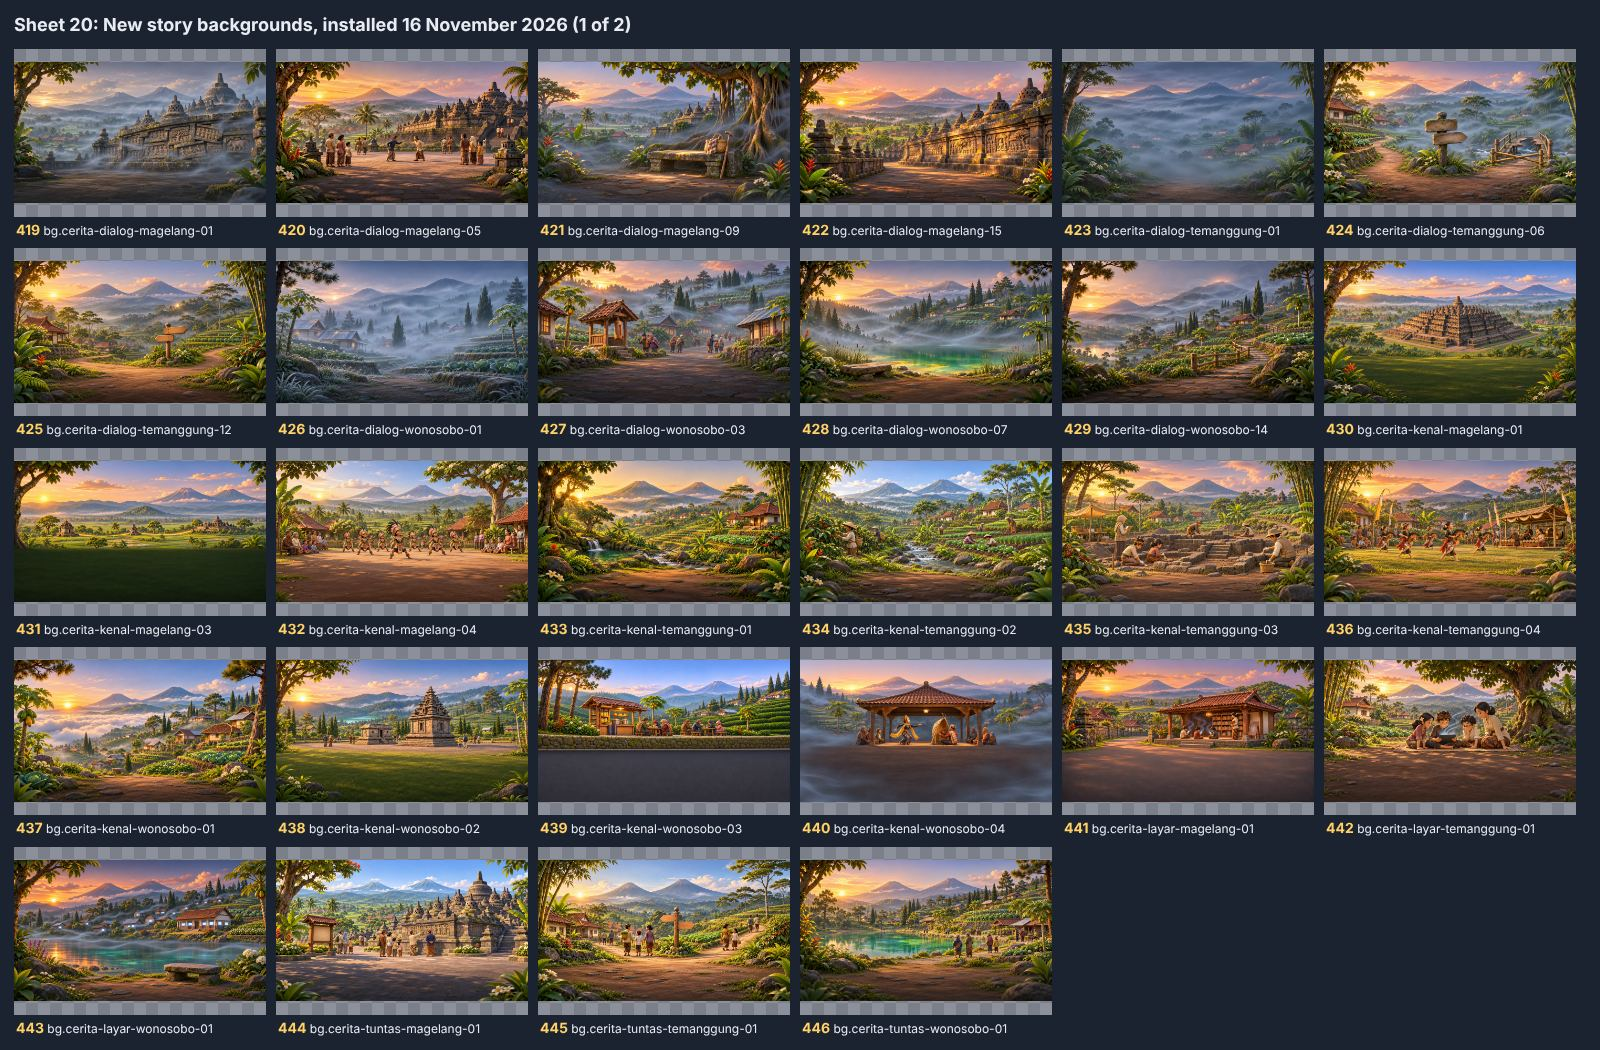
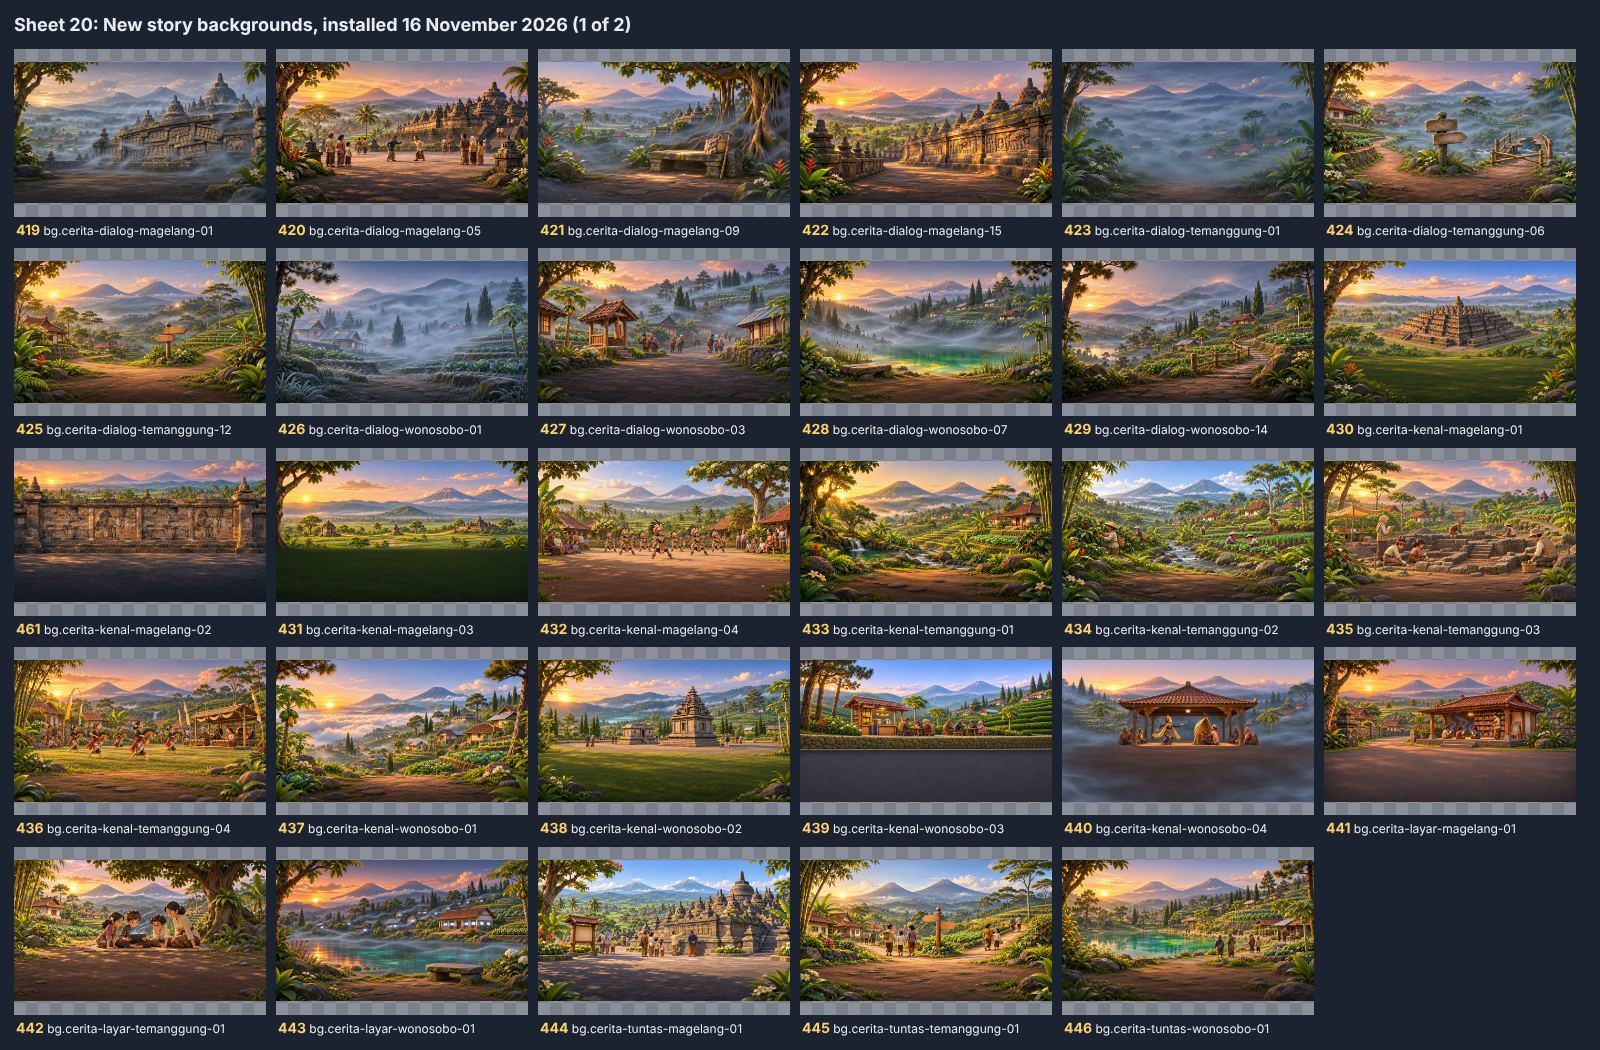
Install M-K2 as the interim Magelang Kenali background; record the PR 420 install and move the shared plates to the uniform-HUD step

diff --git a/gelita-katalog/data.js b/gelita-katalog/data.js
@@ -122,6 +122,7 @@ window.KATALOG = {
 {"id":"bg.cerita-intro-08","g":"story","t":"Tiga Kunci Cahaya","d":"Slide cerita · `intro-08` · Mbah Kedu *smile*. Senja dari serambi joglo penjaga berpagar ukir: Temanggung, Magelang dan Wonosobo terbentang, satu kunci kuningan bercahaya di atas setiap wilayah, ketiganya sama; tanpa orang dan tanpa sinar. Dibuat dari foto Dataran Kedu berizin dari peneliti (R-30, dokumen 39).","k":["bg.cerita-intro-08"],"u":["Cerita pembuka, slide 8"],"r":null,"c":null,"x":false,"p":"assets/uploads/bg.story.intro.8.webp","wh":[1920,1080],"s":"keep","sn":"17 November 2026: replaced in place by the new picture of ../chatgpt-images/TASKS.md row R-30 (document 39), made from the researcher's licensed Kedu photos: golden hour from the keeper's porch with a carved railing, the three lands beyond, one brass key over each; no people, no rays. Owner: accepted (in this session); installed by a Claude session the same day.","no":197},
 {"id":"bg.cerita-intro-09","g":"story","t":"Perjalanan Dimulai","d":"Slide cerita · `intro-09` · narator · *glow*","k":["bg.cerita-intro-09"],"u":["Cerita pembuka, slide 9"],"r":null,"c":null,"x":false,"p":"assets/uploads/bg.story.intro.9.webp","wh":[1920,1080],"s":"none","sn":"","no":198},
 {"id":"bg.cerita-kenal-magelang-01","g":"story","t":"Tanah Candi Agung","d":"Slide cerita · `kenal-magelang-01` · Kenali · TASKS.md M-K1","k":["bg.cerita-kenal-magelang-01"],"u":["Mengenal Magelang, slide 1"],"r":"magelang","c":null,"x":false,"p":"assets/uploads/bg.story.region_intro.magelang.1.webp","wh":[1920,1080],"s":"keep","sn":"accepted by the owner and installed 16 November 2026 — ../chatgpt-images/TASKS.md; one file can fill several slides.","no":430},
+{"id":"bg.cerita-kenal-magelang-02","g":"story","t":"Buku dari Batu","d":"Slide cerita · `kenal-magelang-02` · Kenali · TASKS.md M-K2","k":["bg.cerita-kenal-magelang-02"],"u":["Mengenal Magelang, slide 2"],"r":"magelang","c":null,"x":false,"p":"assets/uploads/bg.story.region_intro.magelang.2.webp","wh":[1920,1080],"s":"keep","sn":"accepted by the owner and installed 18 November 2026 (interim: two relief panels repeated; validators judge it) — ../chatgpt-images/TASKS.md row M-K2; one file can fill several slides. Owner, 18 Nov 2026: asked a Claude session to check and install the pictures of PR 420. The check found the relief panels follow the Kemenag photos 05 and 16, but only two panels are shown, each repeated twice (A-B-A-B), while every Borobudur panel is unique; the owner chose to install it now as the interim picture, and the cultural validators judge it later.","no":461},
 {"id":"bg.cerita-kenal-magelang-03","g":"story","t":"Tiga Candi Segaris","d":"Slide cerita · `kenal-magelang-03` · Kenali · TASKS.md M-K3","k":["bg.cerita-kenal-magelang-03"],"u":["Mengenal Magelang, slide 3"],"r":"magelang","c":null,"x":false,"p":"assets/uploads/bg.story.region_intro.magelang.3.webp","wh":[1920,1080],"s":"keep","sn":"accepted by the owner and installed 16 November 2026 — ../chatgpt-images/TASKS.md; one file can fill several slides.","no":431},
 {"id":"bg.cerita-kenal-magelang-04","g":"story","t":"Pesan Mbah","d":"Slide cerita · `kenal-magelang-04` · Kenali · TASKS.md M-K4","k":["bg.cerita-kenal-magelang-04"],"u":["Mengenal Magelang, slide 4"],"r":"magelang","c":null,"x":false,"p":"assets/uploads/bg.story.region_intro.magelang.4.webp","wh":[1920,1080],"s":"keep","sn":"accepted by the owner and installed 16 November 2026 — ../chatgpt-images/TASKS.md; one file can fill several slides.","no":432},
 {"id":"bg.cerita-kenal-temanggung-01","g":"story","t":"Di Antara Dua Gunung","d":"Slide cerita · `kenal-temanggung-01` · Kenali · TASKS.md T-K1","k":["bg.cerita-kenal-temanggung-01"],"u":["Mengenal Temanggung, slide 1"],"r":"temanggung","c":null,"x":false,"p":"assets/uploads/bg.story.region_intro.temanggung.1.webp","wh":[1920,1080],"s":"keep","sn":"accepted by the owner and installed 16 November 2026 — ../chatgpt-images/TASKS.md; one file can fill several slides.","no":433},

diff --git a/ai-studio/chatgpt-images/TASKS.md b/ai-studio/chatgpt-images/TASKS.md
@@ -20,7 +20,7 @@ Statuses: `todo` → `generated` (ChatGPT, file is in `out/`) → `accepted` or 
 | T-T1 | Story background, Temanggung, region done | `docs/revisi-10-analitik/37_PROMPT_GAMBAR_SUSUN_DAN_CERITA.md` → *T-T1 · Temanggung cerah lagi* | `bg.cerita-tuntas-temanggung-01.webp` | 1920 × 1080 | style | also fills `bg.cerita-tuntas-temanggung-02` to `bg.cerita-tuntas-temanggung-05` (5 slots) | installed | 2026-11-14 Owner, 16 Nov 2026: accepted (all waiting pictures); installed by a Claude session the same day. |
 | T-L1 | Story background, Temanggung, bridge story | `docs/revisi-10-analitik/37_PROMPT_GAMBAR_SUSUN_DAN_CERITA.md` → *T-L1 · Kabut di Layar (Temanggung)* | `bg.cerita-layar-temanggung-01.webp` | 1920 × 1080 | style | also fills `bg.cerita-layar-temanggung-02` to `bg.cerita-layar-temanggung-06` (6 slots) | installed | 2026-11-14 Owner, 16 Nov 2026: accepted (all waiting pictures); installed by a Claude session the same day. |
 | M-K1 | Story background, Magelang, Kenali | `docs/revisi-10-analitik/37_PROMPT_GAMBAR_SUSUN_DAN_CERITA.md` → *M-K1 · Tanah Candi Agung* | `bg.cerita-kenal-magelang-01.webp` | 1920 × 1080 | style | one slot | installed | 2026-11-15 — Acuan foto pemilik di chat. Owner, 16 Nov 2026: accepted (all waiting pictures); installed by a Claude session the same day. |
-| M-K2 | Story background, Magelang, Kenali | `docs/revisi-10-analitik/37_PROMPT_GAMBAR_SUSUN_DAN_CERITA.md` → *M-K2 · Buku dari Batu* | `bg.cerita-kenal-magelang-02.webp` | 1920 × 1080 | style | one slot | generated | 2026-11-14 — Kandidat di inbox; perlu acuan panel asli agar tidak mengarang relief. Review 15 Nov 2026 (Claude session): delete `inbox/M-K2-needs-relief-reference.png` (2.8 MB) once this row is settled. 2026-11-15 — Foto Borobudur O-001–O-003 dari UGM tersedia di inbox, belum dipakai: lisensi per berkas dan kecocokan lorong perlu verifikasi (Commons 403). Tautan relief Mendut berlisensi CC BY 2.0, tetapi bukan Borobudur. Rincian: inbox/reference-sources-2026-11-15.json. 2026-11-15 — Izin penggunaan foto Kemenag dikonfirmasi pemilik melalui kontak langsung; kendala lisensi selesai. 3 percobaan generasi belum lolos kesetiaan relief asli dan area teks bawah. Kandidat baru: inbox/M-K2-candidate-failed-checks.webp. Referensi foto lorong 15.jpg dan detail 5.jpg/16.jpg beserta kredit Lindra Hismanto 2023 tersimpan di inbox; rincian izin di inbox/reference-sources-2026-11-15.json. 2026-11-18 — 2026-11-18: Owner approved Kemenag 05/15/16 references; three new attempts still invent relief panels, although the third has a calm lower third. 2026-11-18 — Owner-requested retry: repeats authorized Kemenag relief compositions in a front-on gallery view with quiet floor. |
+| M-K2 | Story background, Magelang, Kenali | `docs/revisi-10-analitik/37_PROMPT_GAMBAR_SUSUN_DAN_CERITA.md` → *M-K2 · Buku dari Batu* | `bg.cerita-kenal-magelang-02.webp` | 1920 × 1080 | style | one slot | installed | 2026-11-14 — Kandidat di inbox; perlu acuan panel asli agar tidak mengarang relief. Review 15 Nov 2026 (Claude session): delete `inbox/M-K2-needs-relief-reference.png` (2.8 MB) once this row is settled. 2026-11-15 — Foto Borobudur O-001–O-003 dari UGM tersedia di inbox, belum dipakai: lisensi per berkas dan kecocokan lorong perlu verifikasi (Commons 403). Tautan relief Mendut berlisensi CC BY 2.0, tetapi bukan Borobudur. Rincian: inbox/reference-sources-2026-11-15.json. 2026-11-15 — Izin penggunaan foto Kemenag dikonfirmasi pemilik melalui kontak langsung; kendala lisensi selesai. 3 percobaan generasi belum lolos kesetiaan relief asli dan area teks bawah. Kandidat baru: inbox/M-K2-candidate-failed-checks.webp. Referensi foto lorong 15.jpg dan detail 5.jpg/16.jpg beserta kredit Lindra Hismanto 2023 tersimpan di inbox; rincian izin di inbox/reference-sources-2026-11-15.json. 2026-11-18 — 2026-11-18: Owner approved Kemenag 05/15/16 references; three new attempts still invent relief panels, although the third has a calm lower third. 2026-11-18 — Owner-requested retry: repeats authorized Kemenag relief compositions in a front-on gallery view with quiet floor. Owner, 18 Nov 2026: asked a Claude session to check and install the pictures of PR 420. The check found the relief panels follow the Kemenag photos 05 and 16, but only two panels are shown, each repeated twice (A-B-A-B), while every Borobudur panel is unique; the owner chose to install it now as the interim picture, and the cultural validators judge it later. |
 | M-K3 | Story background, Magelang, Kenali | `docs/revisi-10-analitik/37_PROMPT_GAMBAR_SUSUN_DAN_CERITA.md` → *M-K3 · Tiga Candi Segaris* | `bg.cerita-kenal-magelang-03.webp` | 1920 × 1080 | style | one slot | installed | 2026-11-14 first picture. Prompt rewritten 15 Nov 2026: read it again. The three temples now sit in the upper two thirds, seen from a shaded hilltop; the lower third is only dark, plain grass. 2026-11-15 — Generated ulang dari prompt PR #359; sepertiga bawah berupa pita rumput gelap yang polos. 2026-11-15 — Disetujui peneliti. Owner, 16 Nov 2026: accepted (all waiting pictures); installed by a Claude session the same day. |
 | M-K4 | Story background, Magelang, Kenali | `docs/revisi-10-analitik/37_PROMPT_GAMBAR_SUSUN_DAN_CERITA.md` → *M-K4 · Pesan Mbah* | `bg.cerita-kenal-magelang-04.webp` | 1920 × 1080 | style | one slot | installed | 2026-11-15 Owner, 16 Nov 2026: accepted (all waiting pictures); installed by a Claude session the same day. |
 | M-D1 | Story background, Magelang, region dialogue | `docs/revisi-10-analitik/37_PROMPT_GAMBAR_SUSUN_DAN_CERITA.md` → *M-D1 · Borobudur berkabut* | `bg.cerita-dialog-magelang-01.webp` | 1920 × 1080 | style | also fills `bg.cerita-dialog-magelang-02` to `bg.cerita-dialog-magelang-04` (4 slots) | installed | 2026-11-15 Owner, 16 Nov 2026: accepted (all waiting pictures); installed by a Claude session the same day. |

diff --git a/ai-studio/game-images/REVIEW.md b/ai-studio/game-images/REVIEW.md
@@ -2,7 +2,7 @@
 
 The work list of this folder, like `TASKS.md` in `../chatgpt-images/`. One row is one picture; the number under each thumbnail on a sheet is the row's **No**. The owner reviews every picture against the game as it is today, and decides what stays, what is redrawn and what goes. A Claude Code session then acts on the marks (see `docs/PROGRESS.md` → *Asset catalogue audit and picture review*).
 
-401 rows on 17 sheets since 18 November 2026, when the style board U-00 (`reference.27`) got row 460 on sheet 19 and the researcher-checked pictures of document 40 (S-02 to S-05, PK-01 to PK-32) replaced their files in place. 400 rows from 17 November 2026, when the three avatar expressions R-31 to R-33 got rows 457 to 459 on sheet 06. 397 rows from 16 November 2026, when the owner accepted the pictures waiting in `../chatgpt-images/out/` and a Claude session installed them: a picture that replaced a file in place took over that file's row (nos. 447 and 449 to 452 were removed, and sheet 18 with the interim bridge backgrounds 390 to 392, and sheet 21); the new story backgrounds stay on sheet 20, linked to their new place, and W-K4 (no. 440) still waits there for its redo. Before that: 403 rows on 19 sheets (no. 453, the round-2 post photo, added that day; no. 456, the Isi Rumpang plate, too), at first 452 on 21; rows 129 to 178, the 50 vector icons of sheets 07 and 08, were dropped and removed; the other rows keep their numbers.
+402 rows on 17 sheets since 18 November 2026, when the pictures of PR 420 were installed: M-K2 got row 461 on sheet 20, W-K4 (no. 440) took its place there, and the document 40 interface parts replaced their files in place. 401 rows from 18 November 2026, when the style board U-00 (`reference.27`) got row 460 on sheet 19 and the researcher-checked pictures of document 40 (S-02 to S-05, PK-01 to PK-32) replaced their files in place. 400 rows from 17 November 2026, when the three avatar expressions R-31 to R-33 got rows 457 to 459 on sheet 06. 397 rows from 16 November 2026, when the owner accepted the pictures waiting in `../chatgpt-images/out/` and a Claude session installed them: a picture that replaced a file in place took over that file's row (nos. 447 and 449 to 452 were removed, and sheet 18 with the interim bridge backgrounds 390 to 392, and sheet 21); the new story backgrounds stay on sheet 20, linked to their new place, and W-K4 (no. 440) still waits there for its redo. Before that: 403 rows on 19 sheets (no. 453, the round-2 post photo, added that day; no. 456, the Isi Rumpang plate, too), at first 452 on 21; rows 129 to 178, the 50 vector icons of sheets 07 and 08, were dropped and removed; the other rows keep their numbers.
 
 ## How to mark
 
@@ -731,6 +731,7 @@ Shown here only so they can be compared with the rest.
 | 428 | [`bg.cerita-dialog-wonosobo-07`](assets/latar/bg.cerita-dialog-wonosobo-07.webp) | New story background made by ChatGPT | Story slide background (see `data.json`: every slide it fills) | `keep: accepted by the owner and installed 16 November 2026` | `../chatgpt-images/TASKS.md`; one file can fill several slides. |
 | 429 | [`bg.cerita-dialog-wonosobo-14`](assets/latar/bg.cerita-dialog-wonosobo-14.webp) | New story background made by ChatGPT | Story slide background (see `data.json`: every slide it fills) | `keep: accepted by the owner and installed 16 November 2026` | `../chatgpt-images/TASKS.md`; one file can fill several slides. |
 | 430 | [`bg.cerita-kenal-magelang-01`](assets/latar/bg.cerita-kenal-magelang-01.webp) | New story background made by ChatGPT | Story slide background (see `data.json`: every slide it fills) | `keep: accepted by the owner and installed 16 November 2026` | `../chatgpt-images/TASKS.md`; one file can fill several slides. |
+| 461 | [`bg.cerita-kenal-magelang-02`](assets/latar/bg.cerita-kenal-magelang-02.webp) | New story background made by ChatGPT | Story slide background (see `data.json`: every slide it fills) | `keep: accepted by the owner and installed 18 November 2026 (interim: two relief panels repeated; validators judge it)` | `../chatgpt-images/TASKS.md` row M-K2; one file can fill several slides. Owner, 18 Nov 2026: asked a Claude session to check and install the pictures of PR 420. The check found the relief panels follow the Kemenag photos 05 and 16, but only two panels are shown, each repeated twice (A-B-A-B), while every Borobudur panel is unique; the owner chose to install it now as the interim picture, and the cultural validators judge it later. |
 | 431 | [`bg.cerita-kenal-magelang-03`](assets/latar/bg.cerita-kenal-magelang-03.webp) | New story background made by ChatGPT | Story slide background (see `data.json`: every slide it fills) | `keep: accepted by the owner and installed 16 November 2026` | `../chatgpt-images/TASKS.md`; one file can fill several slides. |
 | 432 | [`bg.cerita-kenal-magelang-04`](assets/latar/bg.cerita-kenal-magelang-04.webp) | New story background made by ChatGPT | Story slide background (see `data.json`: every slide it fills) | `keep: accepted by the owner and installed 16 November 2026` | `../chatgpt-images/TASKS.md`; one file can fill several slides. |
 | 433 | [`bg.cerita-kenal-temanggung-01`](assets/latar/bg.cerita-kenal-temanggung-01.webp) | New story background made by ChatGPT | Story slide background (see `data.json`: every slide it fills) | `keep: accepted by the owner and installed 16 November 2026` | `../chatgpt-images/TASKS.md`; one file can fill several slides. |

diff --git a/docs/revisi-10-analitik/04_CATATAN_KEPUTUSAN.md b/docs/revisi-10-analitik/04_CATATAN_KEPUTUSAN.md
@@ -6,6 +6,13 @@ Catatan ini merekam keputusan selama revisi, dari yang terbaru. Keputusan untuk 
 
 ## 18 November 2026
 
+**Gambar PR 420 dipasang; pelat umum menunggu HUD seragam** (cabang `pw/vigilant-cray-j6l324`, dokumen [40](40_PROMPT_GAMBAR_ANTARMUKA.md) dan [41](41_RENCANA_TAMPILAN_SKENARIO_DAN_HUD.md)) · `asal: pengembang` · `disetujui pengembang` · gambar dan dua penanda gembok; naskah, bank soal, dan status dokumen 40 tidak berubah
+
+Pengembang meminta gambar baru PR 420 diperiksa dan dipasang. Diperiksa terhadap prompt dokumen 40 dan 37, lalu:
+1. **Dipasang:** sepuluh cincin avatar (`U-24` sampai `U-33`, avatar 7 kini carica), Lentera Kedu dan tiga lentera Kenali (`U-14` sampai `U-17`), pin peta dan lencana wilayah (`U-18` sampai `U-23`), penanda status, bintang, panah kotak pilihan, pelat judul peta wilayah, dan isi bilah Serpihan Cahaya (`U-06`, `U-08` sampai `U-13`), ikon aplikasi dan favicon dari induknya (`U-34`, `U-35`), latar halaman awal (`S-W`), dan latar cerita `W-K4` (bundengan tegak bertongkat, penari bertopeng). Penanda terkunci kini menggambar gemboknya sendiri, jadi ikon gembok di atasnya dihapus.
+2. **`M-K2` dipasang sebagai gambar sementara** atas keputusan pengembang, walaupun pemeriksaan menemukan hanya dua panel relief dari foto acuan yang masing-masing diulang dua kali (A-B-A-B), padahal setiap panel Borobudur berbeda. Validator budaya menilainya nanti.
+3. **Pelat `U-01` sampai `U-03`, bingkai `U-04`, dan bilah `U-05` belum dipasang:** pemasangannya menata ulang tombol, papan, jendela, dan bilah di sekitar 25 tampilan, jadi dikerjakan bersama HUD seragam (41 §6 langkah C). `U-07` masih `blocked`.
+
 **Tampilan baru Skenario Digital dan HUD seragam** (cabang `pw/vigilant-cray-j6l324`, dokumen [41](41_RENCANA_TAMPILAN_SKENARIO_DAN_HUD.md)) · `asal: pengembang` · `disetujui pengembang` · diskusi mockup dan wawancara dua putaran; rencana saja, belum ada kode; aturan penelitian Skenario Digital (32 §5.2, §6) tidak berubah
 
 Pengembang memutuskan (rincian di 41 §1):

diff --git a/ai-studio/game-images/README.md b/ai-studio/game-images/README.md
@@ -8,7 +8,7 @@ Nothing here is loaded by the game at run time, and the folder is never served. 
 
 | Path | Read by | Notes |
 |---|---|---|
-| `data.json` | `App\Libraries\CatalogImporter::entries()` | 560 picture entries (90 story-slide entries for the 27 story backgrounds installed on 16 November 2026) (514 until the 50 vector icons were dropped in the review of 15 November 2026): `key`, `file`, `cat`, plus title, size, and the prompt the picture was made from. A Pustaka entry may carry `caption` (`{"id": …, "en": …}`): the importer then replaces the caption of the photo the picture stands in for. Slimmed on 15 November 2026: the 97 audio entries and the status fields of the old gallery page are gone (git history). |
+| `data.json` | `App\Libraries\CatalogImporter::entries()` | 565 picture entries (90 story-slide entries for the 27 story backgrounds installed on 16 November 2026) (514 until the 50 vector icons were dropped in the review of 15 November 2026): `key`, `file`, `cat`, plus title, size, and the prompt the picture was made from. A Pustaka entry may carry `caption` (`{"id": …, "en": …}`): the importer then replaces the caption of the photo the picture stands in for. Slimmed on 15 November 2026: the 97 audio entries and the status fields of the old gallery page are gone (git history). |
 | `assets/{karakter,tantangan,pustaka,ikon,latar,referensi,antarmuka,logo,lencana,peta}/` | the importer, through `data.json` | Lossless WebP masters (SVG for vector icons), named after their key. |
 | `mockup/gambar-mockup/*/aset/` | `CatalogImporter::MOCKUP_FILES` and `MOCKUP_DIRS` | 50 pictures that are not in `data.json` (Skenario Digital, test stimuli, Jaka's avatar, the Peta Kedu island map). The folder names are those of the old catalogue. |
 | `REVIEW.md`, `review/` | the owner | The review list of every picture and its contact sheets. Temporary: removed when the review is done. |

diff --git a/docs/revisi-10-analitik/41_RENCANA_TAMPILAN_SKENARIO_DAN_HUD.md b/docs/revisi-10-analitik/41_RENCANA_TAMPILAN_SKENARIO_DAN_HUD.md
@@ -93,9 +93,9 @@ Tombol yang belum aktif memakai gambar yang sama dengan tampilan diredupkan (CSS
 
 | Langkah | Isi | Selesai bila |
 | --- | --- | --- |
-| A | Mockup HTML keempat keadaan (keputusan 12) | Pengembang menyetujui atau memberi catatan |
+| A | Mockup HTML keempat keadaan (keputusan 12); dibuat 18 November 2026 dengan cerita `tmg-5-b01` dan cerita terpanjang `wnb-5-a04` (4 tindakan, 5 alasan): semua keadaan muat di 1366 × 768 tanpa panel bergulir | Pengembang menyetujui atau memberi catatan |
 | B | Prompt `SD-` (bagian 8) dan baris `TASKS.md` | Baris berstatus `todo` |
-| C | HUD seragam (bagian 4), satu cabang | Inventaris sebelum/sesudah, uji per jenis layar, cek `tools/qa/stage-check.mjs` |
+| C | HUD seragam (bagian 4), satu cabang, bersama pemasangan pelat emas, biru tua, dan hijau, bingkai jendela, dan bilah perunggu dari [40](40_PROMPT_GAMBAR_ANTARMUKA.md) (`U-01` sampai `U-05`, keputusan pengembang 18 November 2026), karena keduanya menata ulang semua layar | Inventaris sebelum/sesudah, uji per jenis layar, cek `tools/qa/stage-check.mjs` |
 | D | Tampilan baru Skenario Digital di `skenario.php`, `engines/skenario.js`, `stage.css`; teks baru di berkas bahasa (id dan en) | Uji Skenario Digital hijau; keempat keadaan dicek di Chromebook dua ukuran; aturan bagian 2 utuh |
 | E | Pasang gambar `SD-` yang diterima pengembang | Pelat sementara diganti tanpa mengubah tata letak |
 

diff --git a/docs/PROGRESS.md b/docs/PROGRESS.md
@@ -212,4 +212,4 @@ Add a row (branch, owner / scope, status) when a session starts a branch; remove
 
 | Branch | Owner / scope | Status |
 |---|---|---|
-| `pw/vigilant-cray-j6l324` | Skenario Digital redesign and uniform HUD plan (`docs/revisi-10-analitik/41_RENCANA_TAMPILAN_SKENARIO_DAN_HUD.md`); install of the PR 420 pictures | Plan written (18 Nov 2026); next: clickable mockup of the four states for the owner, then the install of PR 420 |
+| `pw/vigilant-cray-j6l324` | Skenario Digital redesign and uniform HUD plan (`docs/revisi-10-analitik/41_RENCANA_TAMPILAN_SKENARIO_DAN_HUD.md`); install of the PR 420 pictures | Plan written and clickable mockup sent to the owner (18 Nov 2026, not in the repo: built from the bank texts); PR 420 pictures installed except U-01 to U-05 (moved to step C of 41, with the uniform HUD) and U-07 (blocked); PR 420 merged into this branch, so it can be closed or merged first. Next: the owner reviews the mockup, then the `SD-` orders (41 §5) |
